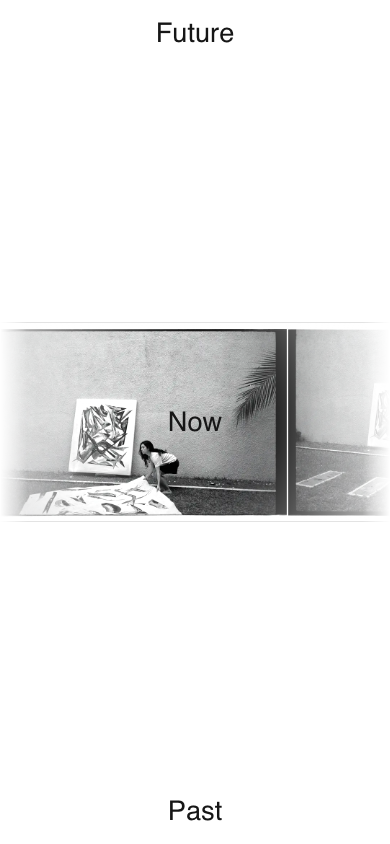
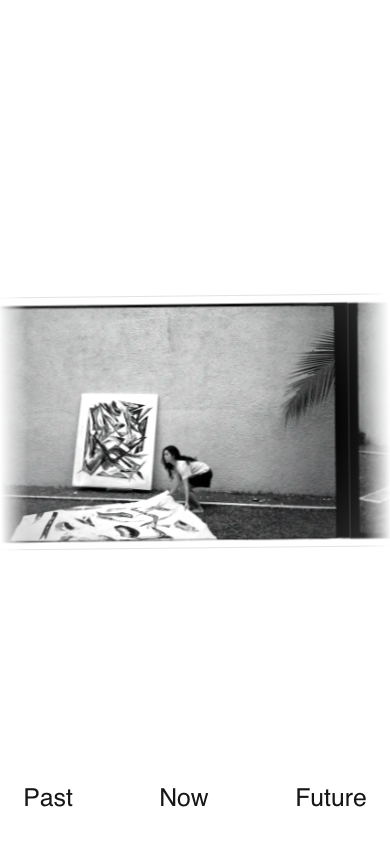
Make the home page work as a phone: swipe the film, tap Past Now Future.
The words sit along the bottom so they no longer cover the pictures, and dragging the strip is the phone version of the desktop hover.

diff --git a/css/site.css b/css/site.css
@@ -253,54 +253,123 @@ body.home:has(.time-nav.is-open) .gate {
 .time-nav.is-open + #backdrop { opacity: 1; }
 
 @media (max-width: 700px) {
-  .time-nav { display: block; }
-  .time-nav:not(.is-open) .time-col { pointer-events: none; }
-  .time-col {
+  body.home { overscroll-behavior: none; }
+    --reel-h: min(46vh, 22rem);
+    --tilt: 0deg;
+    --shift-y: 0px;
+    top: 42%;
+    transform: translateY(-50%);
+    pointer-events: auto;
+    touch-action: none;
+    cursor: grab;
+    -webkit-mask-image: linear-gradient(
+      90deg,
+      transparent 0%,
+      #000 3%,
+      #000 97%,
+      transparent 100%
+    );
+    mask-image: linear-gradient(
+      90deg,
+      transparent 0%,
+      #000 3%,
+      #000 97%,
+      transparent 100%
+    );
+  }
+  .gate:active { cursor: grabbing; }
+  .gate::before { display: none; }
+  .gate::after {
+    background: radial-gradient(
+      ellipse 80% 120% at 50% 50%,
+      transparent 42%,
+      rgba(255, 255, 255, 0.4) 100%
+    );
+  }
+  body.home:has(.time-nav.is-open) .gate {
+    pointer-events: none;
+  }
+
+  .time-nav {
+    display: flex;
+    flex-direction: row;
+    align-items: flex-end;
+    justify-content: space-between;
+    padding: 0 0.6rem calc(1.15rem + env(safe-area-inset-bottom, 0px));
+    pointer-events: none;
+  }
+  .time-nav:not(.is-open) .time-col {
+    position: static;
+    inset: auto;
+    width: auto;
+    min-height: 0;
+    height: auto;
+    display: flex;
+    flex-direction: column;
+    align-items: center;
+    justify-content: flex-end;
+    padding: 0;
+    pointer-events: auto;
+    justify-items: center;
+    text-align: center;
+  }
+  .time-nav:not(.is-open) .time-col h2 {
+    grid-row: auto;
+    align-self: auto;
+    pointer-events: auto;
+    cursor: pointer;
+    font-size: 1.55rem;
+    padding: 0.9rem 0.85rem;
+    min-width: 4.75rem;
+    -webkit-tap-highlight-color: transparent;
+  }
+  .time-nav:not(.is-open) .time-col h2:active {
+    font-style: italic;
+  }
+  .time-nav:not(.is-open) .time-links,
+  .time-nav:not(.is-open) .time-close {
+    display: none;
+  }
+
+  .time-nav.is-open {
+    display: block;
+    pointer-events: none;
+  }
+  .time-nav.is-open .time-col {
     position: absolute;
     inset: 0;
     width: 100%;
+    min-height: 100%;
+    display: grid;
     grid-template-columns: 1fr;
-    grid-template-rows: 1fr 1fr 1fr;
-    justify-items: center !important;
-    text-align: center !important;
+    grid-template-rows: min-content 1fr min-content;
+    justify-items: center;
+    text-align: center;
     pointer-events: none;
+    padding: 1.15rem 1.25rem calc(1.15rem + env(safe-area-inset-bottom, 0px));
   }
-  .time-col > * { grid-column: 1; justify-self: center; }
-  .time-col h2 {
-    pointer-events: all;
-    cursor: pointer;
-    font-size: 1.7rem;
-  }
-  .time-col[data-time="past"] h2 { grid-row: 3; align-self: end; }
-  .time-col[data-time="now"] h2 { grid-row: 2; align-self: center; }
-  .time-col[data-time="future"] h2 { grid-row: 1; align-self: start; }
-  .time-col:not(.open) .time-links { display: none; }
-  .time-col.open h2 { grid-row: 1 !important; align-self: start; }
-  .time-links {
-    grid-row: 2;
-    align-self: center;
-    justify-items: center !important;
-    width: 100%;
-  }
-  .time-links a { font-size: 1.35rem; }
-  .time-close { grid-row: 3; }
   .time-nav.is-open .time-col:not(.open) { visibility: hidden; }
   .time-nav.is-open .time-col.open { pointer-events: all; }
-}
-
-@media (max-width: 700px) {
-  .gate {
-    --reel-h: min(28vh, 12.5rem);
-    --tilt: 0deg;
-    --shift-y: 0px;
-    transform: translateY(-50%) rotate(0deg);
+  .time-nav.is-open .time-col h2 {
+    grid-row: 1;
+    align-self: start;
+    cursor: pointer;
+    font-size: 1.7rem;
+    padding: 0.4rem 0;
   }
-  .gate::before { display: none; }
+  .time-nav.is-open .time-links {
+    display: grid;
+    grid-row: 2;
+    align-self: center;
+    justify-items: center;
+    width: 100%;
+  }
+  .time-nav.is-open .time-links a { font-size: 1.4rem; }
+  .time-nav.is-open .time-close { grid-row: 3; }
 }
 
 @media (prefers-reduced-motion: reduce) {
   .time-links a { transform: none; transition: opacity 0.2s ease; }
-  .reel { transform: none !important; }
 }
 
 /* Work: a room for each painting */

diff --git a/js/site.js b/js/site.js
@@ -30,12 +30,18 @@ function initTimeNav() {
   });
 }
 
-/* Contact-strip: cinematic drift + cursor scrub / spotlight */
+function isPhoneHome() {
+  return window.matchMedia("(max-width: 700px)").matches;
+}
+
+/* Contact-strip: cinematic drift + cursor scrub / phone drag */
 function initReel() {
   const reel = document.querySelector("[data-reel]");
   const gate = document.querySelector(".gate");
+  const nav = document.querySelector(".time-nav");
   if (!reel || !gate || !document.body.classList.contains("home")) return;
-  if (window.matchMedia("(prefers-reduced-motion: reduce)").matches) return;
+
+  const reduce = window.matchMedia("(prefers-reduced-motion: reduce)").matches;
 
   const originals = Array.from(reel.children);
   originals.forEach((node) => {
@@ -57,6 +63,20 @@ function initReel() {
   let targetX = 0.5;
   let targetY = 0.5;
   let velocityBoost = 0;
+  let dragging = false;
+  let lastPointerX = 0;
+  let flick = 0;
+
+  const wrap = () => {
+    if (half <= 0) return;
+    while (offset >= half) offset -= half;
+    while (offset < 0) offset += half;
+  };
+
+  const paint = () => {
+    const lift = isPhoneHome() ? 0 : (pointerY - 0.5) * -6;
+    reel.style.transform = `translate3d(${-offset}px, ${lift}px, 0)`;
+  };
 
   const measure = () => {
     half = reel.scrollWidth / 2;
@@ -83,7 +103,6 @@ function initReel() {
       (e) => {
         targetX = e.clientX / window.innerWidth;
         targetY = e.clientY / window.innerHeight;
-        /* nudge speed toward the side the cursor leans */
         velocityBoost += (targetX - 0.5) * 2.4;
         velocityBoost = Math.max(-90, Math.min(90, velocityBoost));
       },
@@ -91,29 +110,54 @@ function initReel() {
     );
   }
 
+  gate.addEventListener("pointerdown", (e) => {
+    if (!isPhoneHome()) return;
+    if (nav?.classList.contains("is-open")) return;
+    dragging = true;
+    lastPointerX = e.clientX;
+    flick = 0;
+    gate.setPointerCapture(e.pointerId);
+  });
+  gate.addEventListener("pointermove", (e) => {
+    if (!dragging) return;
+    const dx = e.clientX - lastPointerX;
+    lastPointerX = e.clientX;
+    flick = dx;
+    offset -= dx;
+    wrap();
+    paint();
+  });
+  const endDrag = () => {
+    if (!dragging) return;
+    dragging = false;
+    velocityBoost += -flick * 8;
+    velocityBoost = Math.max(-180, Math.min(180, velocityBoost));
+  };
+  gate.addEventListener("pointerup", endDrag);
+  gate.addEventListener("pointercancel", endDrag);
+
   const tick = (now) => {
     const dt = Math.min(0.05, (now - last) / 1000);
     last = now;
     pulse += dt;
 
-    pointerX += (targetX - pointerX) * Math.min(1, dt * 7);
-    pointerY += (targetY - pointerY) * Math.min(1, dt * 7);
+    if (!isPhoneHome()) {
+      pointerX += (targetX - pointerX) * Math.min(1, dt * 7);
+      pointerY += (targetY - pointerY) * Math.min(1, dt * 7);
+      gate.style.setProperty("--mx", `${pointerX * 100}%`);
+      gate.style.setProperty("--my", `${pointerY * 100}%`);
+      gate.style.setProperty("--tilt", `${-0.6 + (pointerX - 0.5) * 1.8}deg`);
+      gate.style.setProperty("--shift-y", `${(pointerY - 0.5) * 18}px`);
+    }
+
     velocityBoost *= Math.pow(0.92, dt * 60);
 
-    gate.style.setProperty("--mx", `${pointerX * 100}%`);
-    gate.style.setProperty("--my", `${pointerY * 100}%`);
-    gate.style.setProperty("--tilt", `${-0.6 + (pointerX - 0.5) * 1.8}deg`);
-    gate.style.setProperty("--shift-y", `${(pointerY - 0.5) * 18}px`);
-
-    const crawl = 26 + Math.sin(pulse * 0.55) * 8;
-    const scrub = (pointerX - 0.5) * 55 + velocityBoost;
-    const speed = crawl + scrub;
-
-    if (half > 0) {
-      offset += speed * dt;
-      while (offset >= half) offset -= half;
-      while (offset < 0) offset += half;
-      reel.style.transform = `translate3d(${-offset}px, ${(pointerY - 0.5) * -6}px, 0)`;
+    if (!dragging) {
+      const crawl = reduce || isPhoneHome() ? (reduce ? 0 : 18) : 26 + Math.sin(pulse * 0.55) * 8;
+      const scrub = isPhoneHome() ? 0 : (pointerX - 0.5) * 55;
+      offset += (crawl + scrub + velocityBoost) * dt;
+      wrap();
+      paint();
     }
     requestAnimationFrame(tick);
   };

diff --git a/index.html b/index.html
@@ -2,7 +2,7 @@
 <html lang="en">
 <head>
   <meta charset="UTF-8">
-  <meta name="viewport" content="width=device-width, initial-scale=1">
+  <meta name="viewport" content="width=device-width, initial-scale=1, viewport-fit=cover">
   <title>Annie Ríos</title>
   <meta name="description" content="Annie Ríos. Spanish-Panamanian abstract expressionist. Chromatic flattening and refraction.">
   <link rel="canonical" href="https://www.annieabstracts.com/">

diff --git a/_verify.py b/_verify.py
@@ -177,6 +177,12 @@ def main():
             if overflow_x(page):
                 problems.append(f"{path} horizontal overflow mobile")
             page.screenshot(path=str(OUT / f"{name}-mobile.png"), full_page=False)
+            if name == "home":
+                page.locator('.time-col[data-time="now"] h2').click()
+                page.wait_for_timeout(400)
+                page.screenshot(path=str(OUT / "home-now-mobile.png"), full_page=False)
+                page.locator(".time-col.open .time-close").click()
+                page.wait_for_timeout(250)
             page.set_viewport_size({"width": 1440, "height": 900})
 
         page.goto("http://127.0.0.1:8080/", wait_until="domcontentloaded")
